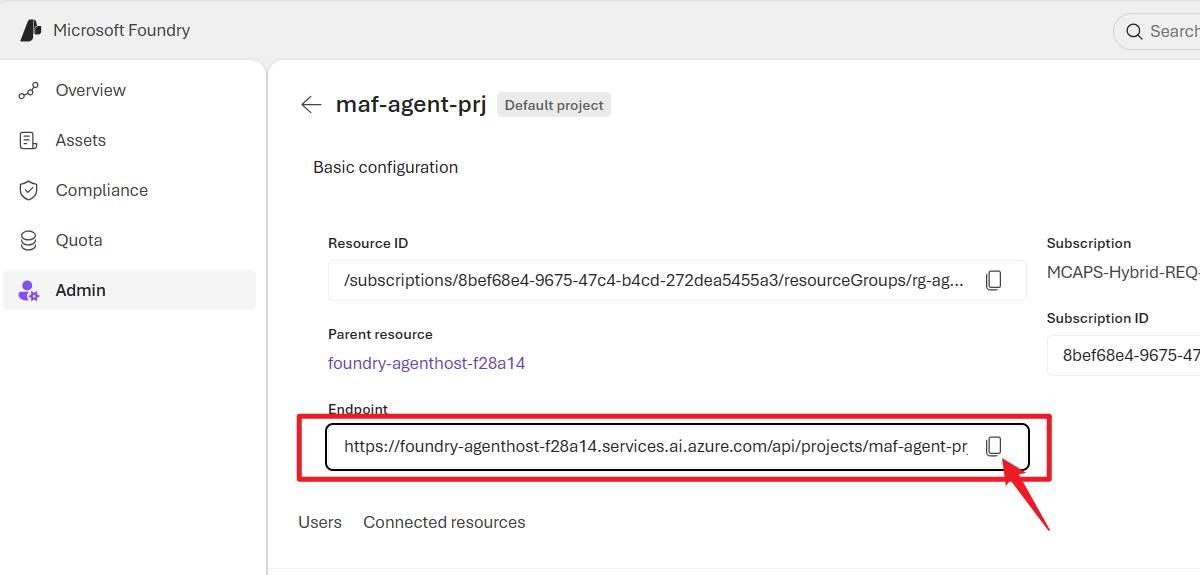
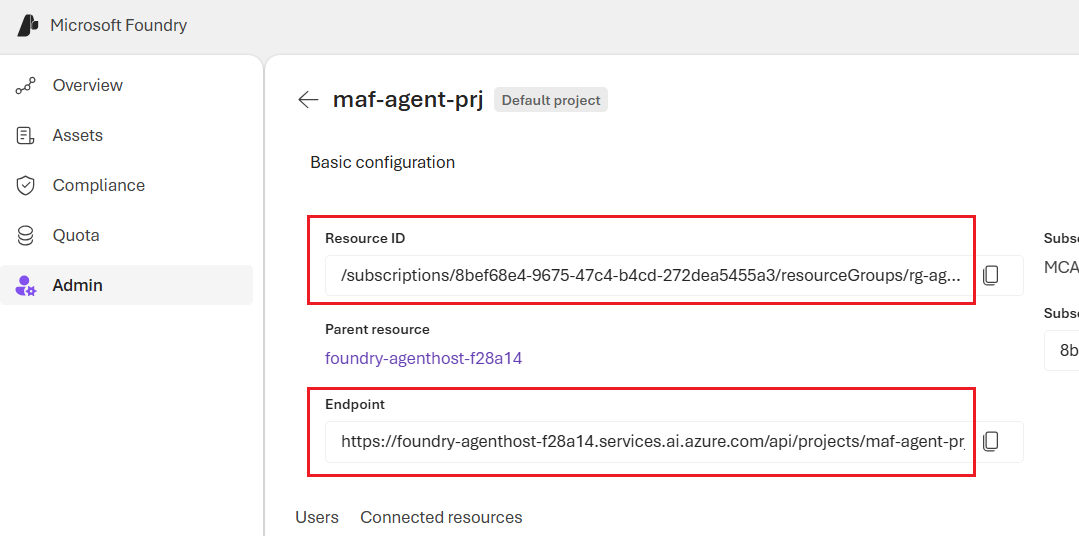
Update README.md: Clarify instructions for obtaining project resource ID and endpoint in Foundry

diff --git a/agenthost/module-02/README.md b/agenthost/module-02/README.md
@@ -43,7 +43,7 @@ Both clients speak the **Responses** protocol, so the hosted agent (served by `R
 
 module-01 already created the Foundry account, the `maf-agent-prj` project, and the `gpt-5.4-mini` deployment. To make `azd` **reuse** them instead of provisioning a brand-new account/project, initialize the agent with the existing project's **ARM resource ID** (`--project-id`).
 
-First grab the project resource ID from the Foundry portal. In the Foundry portal, go to "Operate -> Admin -> enter your project -> Endpoint", you will see your project resource id. Copy and use it to set the "PROJECT_ID" as below:
+First grab the project resource ID and project endpoint from the Foundry portal. In the Foundry portal, go to "Operate -> Admin -> enter your project", you will see your project resource id and endpoint. Copy and use them to set environment variables as below:
 
 ![Get Project Endpoint in Foundry](get_prj_endpoint_in_foundry.png)
 